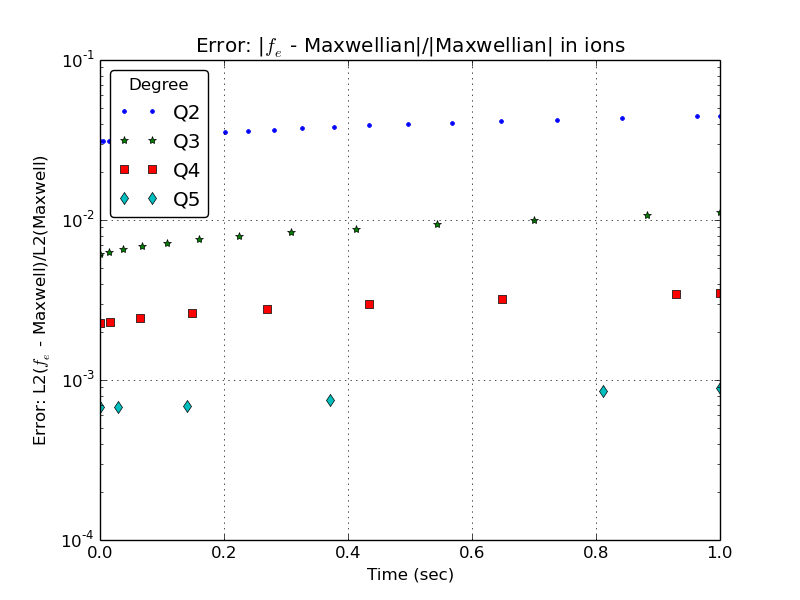
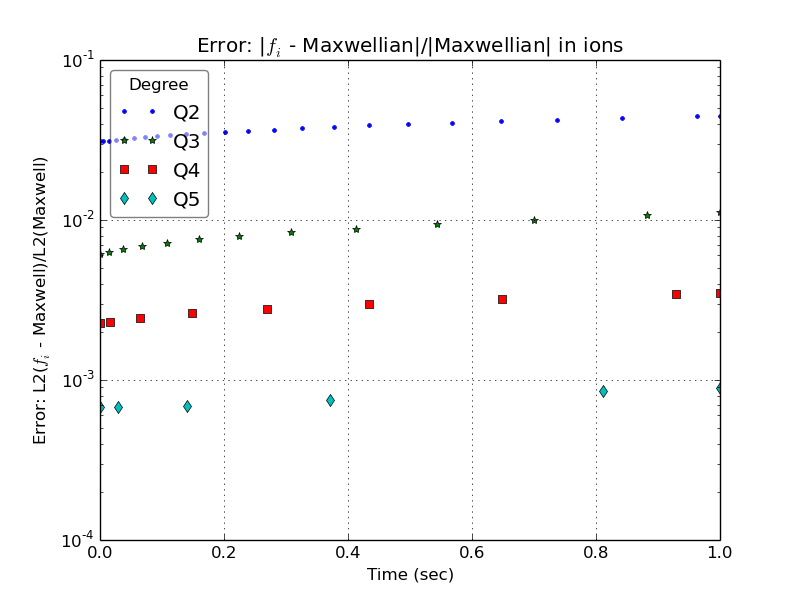
update some plots

diff --git a/src/dm/impls/plex/tutorials/doc/plot.py b/src/dm/impls/plex/tutorials/doc/plot.py
@@ -27,12 +27,12 @@ plt.semilogy(q5[:,0],(q5[:,1]),'d',label="Q5")
 xmin, xmax, ymin, ymax = plt.axis()
 #xmin, xmax, ymin, ymax = plt.axis([xmin, xmax, .1, 1.5])
 plt.grid()
-plt.legend(ncol=1,loc="upper left", shadow=False, fancybox=True,title="Degree")
+plt.legend(ncol=1,loc="upper left", shadow=False, fancybox=True,title="Degree", framealpha=0.5)
 plt.savefig('e_L2error.png')
 plt.close()
-plt.ylabel('Error: L2($f_e$ - Maxwell)/L2(Maxwell)')
+plt.ylabel('Error: L2($f_i$ - Maxwell)/L2(Maxwell)')
 plt.xlabel('Time (sec)')
-plt.title('Error: |$f_e$ - Maxwellian|/|Maxwellian| in ions')
+plt.title('Error: |$f_i$ - Maxwellian|/|Maxwellian| in ions')
 #plt.axis([0, 900, 60, 100])
 plt.semilogy(q2[:,0],q2[:,2],'.',label="Q2")
 plt.semilogy(q3[:,0],q3[:,2],'*',label="Q3")
@@ -42,7 +42,7 @@ plt.semilogy(q5[:,0],q5[:,2],'d',label="Q5")
 plt.grid()
 xmin, xmax, ymin, ymax = plt.axis()
 #xmin, xmax, ymin, ymax = plt.axis([xmin, xmax, 1e-5, ymax])
-plt.legend(ncol=1,loc="upper left", shadow=False, fancybox=True,title="Degree")
+plt.legend(ncol=1,loc="upper left", shadow=False, fancybox=True,title="Degree", framealpha=0.5)
 #plt.show()
 plt.savefig('i_L2error.png')
 #plt.xticks(x, x, rotation='horizontal')
